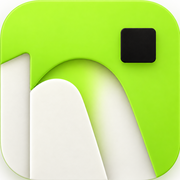
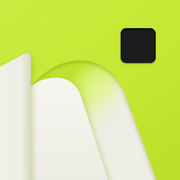
Ikona „n.“ ve vektoru: SVG master + všechny exporty
- brand/logo.svg: ikona překreslená 1:1 do SVG (1024 viewBox, limetka #C5E832,
  krémové vrstvy, stíny přes feDropShadow, vnitřní stín černého čtverce)
- exporty ze SVG: favicon.svg/.ico (16/32/48), apple-touch-icon 180 (neprůhledná),
  android-chrome 192/512, maskable-512, icon-4096/2048/1024, icon-1024-appstore,
  og-image 1200x630
- hlavičky 11 stránek: favicon.svg místo PNG 32, ?v=2 kvůli cache
- site.webmanifest: theme_color #C5E832, nové ikony včetně maskable
- smazané staré icons/nexivo-*.png a nepoužívané SVG značky v assets/

Claude-Session: https://claude.ai/code/session_0153SyeTBzh4eFi4e8QbHuMb

diff --git a/index.html b/index.html
@@ -21,10 +21,10 @@
   <meta name="twitter:title" content="nexivo. – AI agenti, kteří vrátí firmě desítky hodin týdně">
   <meta name="twitter:description" content="Odpovídají na poptávky, zapisují termíny, hlídají follow-up a každé pondělí vám pošlou report. Spuštění do 14 dní.">
   <meta name="twitter:image" content="https://nexivoai.cz/assets/nexivo-og-hero.png?v=1">
-  <link rel="icon" href="/favicon.ico" sizes="48x48">
-  <link rel="icon" href="/icons/nexivo-32.png" type="image/png" sizes="32x32">
-  <link rel="apple-touch-icon" href="/apple-touch-icon.png">
-  <link rel="manifest" href="/site.webmanifest">
+  <link rel="icon" href="/favicon.ico?v=2" sizes="32x32">
+  <link rel="icon" href="/favicon.svg?v=2" type="image/svg+xml">
+  <link rel="apple-touch-icon" href="/apple-touch-icon.png?v=2">
+  <link rel="manifest" href="/site.webmanifest?v=2">
   <meta name="theme-color" content="#F7F5EF">
   <meta name="apple-mobile-web-app-title" content="Nexivo">
   <link rel="preconnect" href="https://fonts.googleapis.com">

diff --git a/gdpr.html b/gdpr.html
@@ -21,10 +21,10 @@
   <meta name="twitter:title" content="Ochrana osobních údajů (GDPR) — Nexivo">
   <meta name="twitter:description" content="Zásady zpracování osobních údajů společnosti RIVENTI s.r.o. (Nexivo) — jaké údaje zpracováváme, proč, a jaká máte práva podle GDPR.">
   <meta name="twitter:image" content="https://nexivoai.cz/assets/nexivo-og.png?v=2">
-  <link rel="icon" href="/favicon.ico" sizes="48x48">
-  <link rel="icon" href="/icons/nexivo-32.png" type="image/png" sizes="32x32">
-  <link rel="apple-touch-icon" href="/apple-touch-icon.png">
-  <link rel="manifest" href="/site.webmanifest">
+  <link rel="icon" href="/favicon.ico?v=2" sizes="32x32">
+  <link rel="icon" href="/favicon.svg?v=2" type="image/svg+xml">
+  <link rel="apple-touch-icon" href="/apple-touch-icon.png?v=2">
+  <link rel="manifest" href="/site.webmanifest?v=2">
   <meta name="theme-color" content="#F7F5EF">
   <meta name="apple-mobile-web-app-title" content="Nexivo">
   <link rel="preconnect" href="https://fonts.googleapis.com">

diff --git a/business.html b/business.html
@@ -19,10 +19,10 @@
   <meta name="twitter:title" content="AI agent pro realitní makléře | Nexivo">
   <meta name="twitter:description" content="AI agent pro realitní makléře — přebírá hovory, dotazy klientů a administrativu, hledá nové zakázky a posílá vám lead do mobilu do minuty.">
   <meta name="twitter:image" content="https://nexivoai.cz/assets/nexivo-og.png">
-  <link rel="icon" href="/favicon.ico" sizes="48x48">
-  <link rel="icon" href="/icons/nexivo-32.png" type="image/png" sizes="32x32">
-  <link rel="apple-touch-icon" href="/apple-touch-icon.png">
-  <link rel="manifest" href="/site.webmanifest">
+  <link rel="icon" href="/favicon.ico?v=2" sizes="32x32">
+  <link rel="icon" href="/favicon.svg?v=2" type="image/svg+xml">
+  <link rel="apple-touch-icon" href="/apple-touch-icon.png?v=2">
+  <link rel="manifest" href="/site.webmanifest?v=2">
   <meta name="theme-color" content="#F7F5EF">
   <meta name="apple-mobile-web-app-title" content="Nexivo">
   <link rel="preconnect" href="https://fonts.googleapis.com">

diff --git a/obchodni-podminky.html b/obchodni-podminky.html
@@ -21,10 +21,10 @@
   <meta name="twitter:title" content="Obchodní podmínky — Nexivo">
   <meta name="twitter:description" content="Obchodní podmínky společnosti RIVENTI s.r.o. (Nexivo) pro poskytování AI agentů a souvisejících služeb, včetně garance vrácení peněz.">
   <meta name="twitter:image" content="https://nexivoai.cz/assets/nexivo-og.png?v=2">
-  <link rel="icon" href="/favicon.ico" sizes="48x48">
-  <link rel="icon" href="/icons/nexivo-32.png" type="image/png" sizes="32x32">
-  <link rel="apple-touch-icon" href="/apple-touch-icon.png">
-  <link rel="manifest" href="/site.webmanifest">
+  <link rel="icon" href="/favicon.ico?v=2" sizes="32x32">
+  <link rel="icon" href="/favicon.svg?v=2" type="image/svg+xml">
+  <link rel="apple-touch-icon" href="/apple-touch-icon.png?v=2">
+  <link rel="manifest" href="/site.webmanifest?v=2">
   <meta name="theme-color" content="#F7F5EF">
   <meta name="apple-mobile-web-app-title" content="Nexivo">
   <link rel="preconnect" href="https://fonts.googleapis.com">

diff --git a/kariera.html b/kariera.html
@@ -21,10 +21,10 @@
   <meta name="twitter:title" content="Kariéra v Nexivo — obchodník a telefonista">
   <meta name="twitter:description" content="Nexivo hledá Obchodníka a Telefonistu do obchodního týmu. Pomáhejte firmám v ČR a SR nasazovat AI agenty. Práce na dálku.">
   <meta name="twitter:image" content="https://nexivoai.cz/assets/nexivo-og.png?v=2">
-  <link rel="icon" href="/favicon.ico" sizes="48x48">
-  <link rel="icon" href="/icons/nexivo-32.png" type="image/png" sizes="32x32">
-  <link rel="apple-touch-icon" href="/apple-touch-icon.png">
-  <link rel="manifest" href="/site.webmanifest">
+  <link rel="icon" href="/favicon.ico?v=2" sizes="32x32">
+  <link rel="icon" href="/favicon.svg?v=2" type="image/svg+xml">
+  <link rel="apple-touch-icon" href="/apple-touch-icon.png?v=2">
+  <link rel="manifest" href="/site.webmanifest?v=2">
   <meta name="theme-color" content="#F7F5EF">
   <meta name="apple-mobile-web-app-title" content="Nexivo">
   <link rel="preconnect" href="https://fonts.googleapis.com">

diff --git a/tym.html b/tym.html
@@ -21,10 +21,10 @@
   <meta name="twitter:title" content="Tým — lidé za AI agenty Nexivo">
   <meta name="twitter:description" content="Nexivo založili Roman Richter (Head of Sales) a Nicolas Richter (CTO). Poznejte tým, který staví AI agenty pro servisní firmy v ČR a SR.">
   <meta name="twitter:image" content="https://nexivoai.cz/assets/nexivo-og.png?v=2">
-  <link rel="icon" href="/favicon.ico" sizes="48x48">
-  <link rel="icon" href="/icons/nexivo-32.png" type="image/png" sizes="32x32">
-  <link rel="apple-touch-icon" href="/apple-touch-icon.png">
-  <link rel="manifest" href="/site.webmanifest">
+  <link rel="icon" href="/favicon.ico?v=2" sizes="32x32">
+  <link rel="icon" href="/favicon.svg?v=2" type="image/svg+xml">
+  <link rel="apple-touch-icon" href="/apple-touch-icon.png?v=2">
+  <link rel="manifest" href="/site.webmanifest?v=2">
   <meta name="theme-color" content="#F7F5EF">
   <meta name="apple-mobile-web-app-title" content="Nexivo">
   <link rel="preconnect" href="https://fonts.googleapis.com">

diff --git a/kontakt.html b/kontakt.html
@@ -21,10 +21,10 @@
   <meta name="twitter:title" content="Kontakt — Nexivo, AI agenti pro firmy">
   <meta name="twitter:description" content="Kontaktujte Nexivo — AI agenty pro servisní firmy v ČR a SR. E-mail, telefon i fakturační údaje RIVENTI s.r.o. na jednom místě.">
   <meta name="twitter:image" content="https://nexivoai.cz/assets/nexivo-og.png?v=2">
-  <link rel="icon" href="/favicon.ico" sizes="48x48">
-  <link rel="icon" href="/icons/nexivo-32.png" type="image/png" sizes="32x32">
-  <link rel="apple-touch-icon" href="/apple-touch-icon.png">
-  <link rel="manifest" href="/site.webmanifest">
+  <link rel="icon" href="/favicon.ico?v=2" sizes="32x32">
+  <link rel="icon" href="/favicon.svg?v=2" type="image/svg+xml">
+  <link rel="apple-touch-icon" href="/apple-touch-icon.png?v=2">
+  <link rel="manifest" href="/site.webmanifest?v=2">
   <meta name="theme-color" content="#F7F5EF">
   <meta name="apple-mobile-web-app-title" content="Nexivo">
   <link rel="preconnect" href="https://fonts.googleapis.com">

diff --git a/klient/index.html b/klient/index.html
@@ -5,10 +5,10 @@
   <meta name="viewport" content="width=device-width, initial-scale=1">
   <title>Přihlášení — Nexivo Klientský portál</title>
   <meta name="robots" content="noindex, nofollow">
-  <link rel="icon" href="/favicon.ico" sizes="48x48">
-  <link rel="icon" href="/icons/nexivo-32.png" type="image/png" sizes="32x32">
-  <link rel="apple-touch-icon" href="/apple-touch-icon.png">
-  <link rel="manifest" href="/site.webmanifest">
+  <link rel="icon" href="/favicon.ico?v=2" sizes="32x32">
+  <link rel="icon" href="/favicon.svg?v=2" type="image/svg+xml">
+  <link rel="apple-touch-icon" href="/apple-touch-icon.png?v=2">
+  <link rel="manifest" href="/site.webmanifest?v=2">
   <meta name="theme-color" content="#F7F5EF">
   <meta name="apple-mobile-web-app-title" content="Nexivo">
   <link href="https://fonts.googleapis.com/css2?family=Fraunces:ital,opsz,wght@0,9..144,400;0,9..144,500;0,9..144,600;1,9..144,400&family=Manrope:wght@400;500;600;700&display=swap" rel="stylesheet">

diff --git a/klient/aktivovat.html b/klient/aktivovat.html
@@ -5,10 +5,10 @@
   <meta name="viewport" content="width=device-width, initial-scale=1">
   <title>Aktivace účtu — Nexivo</title>
   <meta name="robots" content="noindex, nofollow">
-  <link rel="icon" href="/favicon.ico" sizes="48x48">
-  <link rel="icon" href="/icons/nexivo-32.png" type="image/png" sizes="32x32">
-  <link rel="apple-touch-icon" href="/apple-touch-icon.png">
-  <link rel="manifest" href="/site.webmanifest">
+  <link rel="icon" href="/favicon.ico?v=2" sizes="32x32">
+  <link rel="icon" href="/favicon.svg?v=2" type="image/svg+xml">
+  <link rel="apple-touch-icon" href="/apple-touch-icon.png?v=2">
+  <link rel="manifest" href="/site.webmanifest?v=2">
   <meta name="theme-color" content="#F7F5EF">
   <meta name="apple-mobile-web-app-title" content="Nexivo">
   <link href="https://fonts.googleapis.com/css2?family=Fraunces:ital,opsz,wght@0,9..144,400;0,9..144,500;0,9..144,600;1,9..144,400&family=Manrope:wght@400;500;600;700;800&display=swap" rel="stylesheet">

diff --git a/nexivo_inquiry.html b/nexivo_inquiry.html
@@ -12,10 +12,10 @@
   <meta property="og:description" content="Vyberte si balíček AI automatizace pro váš provoz. Jednorázová platba od 13 890 Kč.">
   <meta property="og:locale" content="cs_CZ">
   <meta property="og:site_name" content="Nexivo">
-  <link rel="icon" href="/favicon.ico" sizes="48x48">
-  <link rel="icon" href="/icons/nexivo-32.png" type="image/png" sizes="32x32">
-  <link rel="apple-touch-icon" href="/apple-touch-icon.png">
-  <link rel="manifest" href="/site.webmanifest">
+  <link rel="icon" href="/favicon.ico?v=2" sizes="32x32">
+  <link rel="icon" href="/favicon.svg?v=2" type="image/svg+xml">
+  <link rel="apple-touch-icon" href="/apple-touch-icon.png?v=2">
+  <link rel="manifest" href="/site.webmanifest?v=2">
   <meta name="theme-color" content="#F7F5EF">
   <meta name="apple-mobile-web-app-title" content="Nexivo">
   <link rel="preconnect" href="https://fonts.googleapis.com">

diff --git a/schuzka.html b/schuzka.html
@@ -5,10 +5,10 @@
   <meta name="viewport" content="width=device-width, initial-scale=1">
   <title>Schůzka je domluvená — Nexivo</title>
   <meta name="robots" content="noindex, nofollow">
-  <link rel="icon" href="/favicon.ico" sizes="48x48">
-  <link rel="icon" href="/icons/nexivo-32.png" type="image/png" sizes="32x32">
-  <link rel="apple-touch-icon" href="/apple-touch-icon.png">
-  <link rel="manifest" href="/site.webmanifest">
+  <link rel="icon" href="/favicon.ico?v=2" sizes="32x32">
+  <link rel="icon" href="/favicon.svg?v=2" type="image/svg+xml">
+  <link rel="apple-touch-icon" href="/apple-touch-icon.png?v=2">
+  <link rel="manifest" href="/site.webmanifest?v=2">
   <meta name="theme-color" content="#F7F5EF">
   <meta name="apple-mobile-web-app-title" content="Nexivo">
   <link rel="preconnect" href="https://fonts.googleapis.com">

diff --git a/CLAUDE.md b/CLAUDE.md
@@ -25,14 +25,13 @@ No build system, no package manager. All files are standalone HTML with inline o
 ├── colors_and_type.css         ← Design tokens: colors, typography, spacing
 ├── og-gen.html                 ← OG image generator (open in browser to download PNG)
 ├── vercel.json                 ← cleanUrls + redirects
-├── favicon.ico, apple-touch-icon.png, site.webmanifest ← app icon „n.“ (root, absolute paths)
-├── icons/                      ← nexivo-16/32/48/180/192/512.png (rounded corners transparent; 180 opaque for iOS)
+├── favicon.ico, favicon.svg, apple-touch-icon.png, site.webmanifest ← app icon „n.“ (root, absolute paths)
+├── icons/                      ← android-chrome-192/512.png (rounded, transparent corners), maskable-512.png (80 % safe zone on #C5E832)
+├── brand/                      ← logo.svg = vector MASTER of the app icon (1024 viewBox); icon-4096/2048/1024.png,
+│                                  icon-1024-appstore.png (opaque, square), og-image.png (icon + wordmark on #1C1C1C)
 ├── assets/
-│   ├── nexivo-favicon.svg      ← Starý favicon, už se nepoužívá (nahrazen /favicon.ico + /icons/)
-│   ├── nexivo-logo.png         ← Logo — používá se všude na světlém pozadí
+│   ├── nexivo-logo.png         ← Logo (wordmark) — používá se všude na světlém pozadí
 │   ├── nexivo-logo-inverse.png ← Totéž pro tmavé pozadí (patička)
-│   ├── nexivo-wordmark.svg     ← Starý wordmark, nikde se nepoužívá
-│   ├── nexivo-mark.svg         ← Geometric N mark, nepoužívá se
 │   └── ...
 └── klient/
     ├── index.html              ← Login page (nexivoai.cz/klient) → real portal at /portal
@@ -234,7 +233,8 @@ After deploy, always push to GitHub: `git push origin main`
 - **No build system** — edit HTML/CSS directly, no transpilation
 - **CSS tokens** — use `colors_and_type.css` variables for marketing pages, inline `:root` vars for dashboard
 - **Dual file rule ABOLISHED** — `nexivo_landing.html` deleted, `index.html` is the only landing page
-- **Icons** — every Nexivo page head carries the same 6-line block: `/favicon.ico`, `/icons/nexivo-32.png`, `/apple-touch-icon.png`, `/site.webmanifest`, `theme-color #F7F5EF`, `apple-mobile-web-app-title`. Copy it to new pages.
+- **Icons** — every Nexivo page head carries the same 6-line block: `/favicon.ico?v=2`, `/favicon.svg?v=2`, `/apple-touch-icon.png?v=2`, `/site.webmanifest?v=2`, `theme-color #F7F5EF`, `apple-mobile-web-app-title`. Copy it to new pages.
+  Every icon PNG/ICO is exported from `brand/logo.svg` (resvg + sharp); change the SVG, re-export all sizes, bump `?v=`. Never edit the PNGs by hand.
 - **Internal links** — always clean paths (`/`, `/nexivo_inquiry`, `/klient`), never `.html` extensions
 - **No comments** in code unless WHY is non-obvious
 
@@ -247,6 +247,7 @@ Když Roman napíše „smaž animace“ / „vrať hero“ apod., vrať přísl
 
 | Commit | Co dělá | Revert vrátí |
 |--------|---------|--------------|
+| _(feat/new-logo)_ | Ikona „n.“ překreslená do vektoru (`brand/logo.svg`), nové exporty (favicon.svg/ico, apple-touch, android, maskable, App Store, OG), manifest `theme_color #C5E832`, smazané staré ikony a nepoužívané SVG značky | rastrovou ikonu `icons/nexivo-*.png` |
 | `3a813b3` | Nová ikona „n.“: favicon, ikona na plochu iPhonu, manifest aplikace na 11 stránkách (+ dashboard, který byl mezitím smazán) | starý SVG favicon |
 | `18d6fce` | Hero úplně statický: nadpis, texty a vrstvy se nehýbou (žádný reveal, rozpad na slova, parallax, plovoucí karty, naklonění dema) | animace v hero zpět |
 | `b4f654b` | Srovnání ChatGPT vs agent jako souboj při scrollu (přeškrtávání, skóre 4/4, odznak vs, kategorie řádků) | původní statické dva sloupce |
